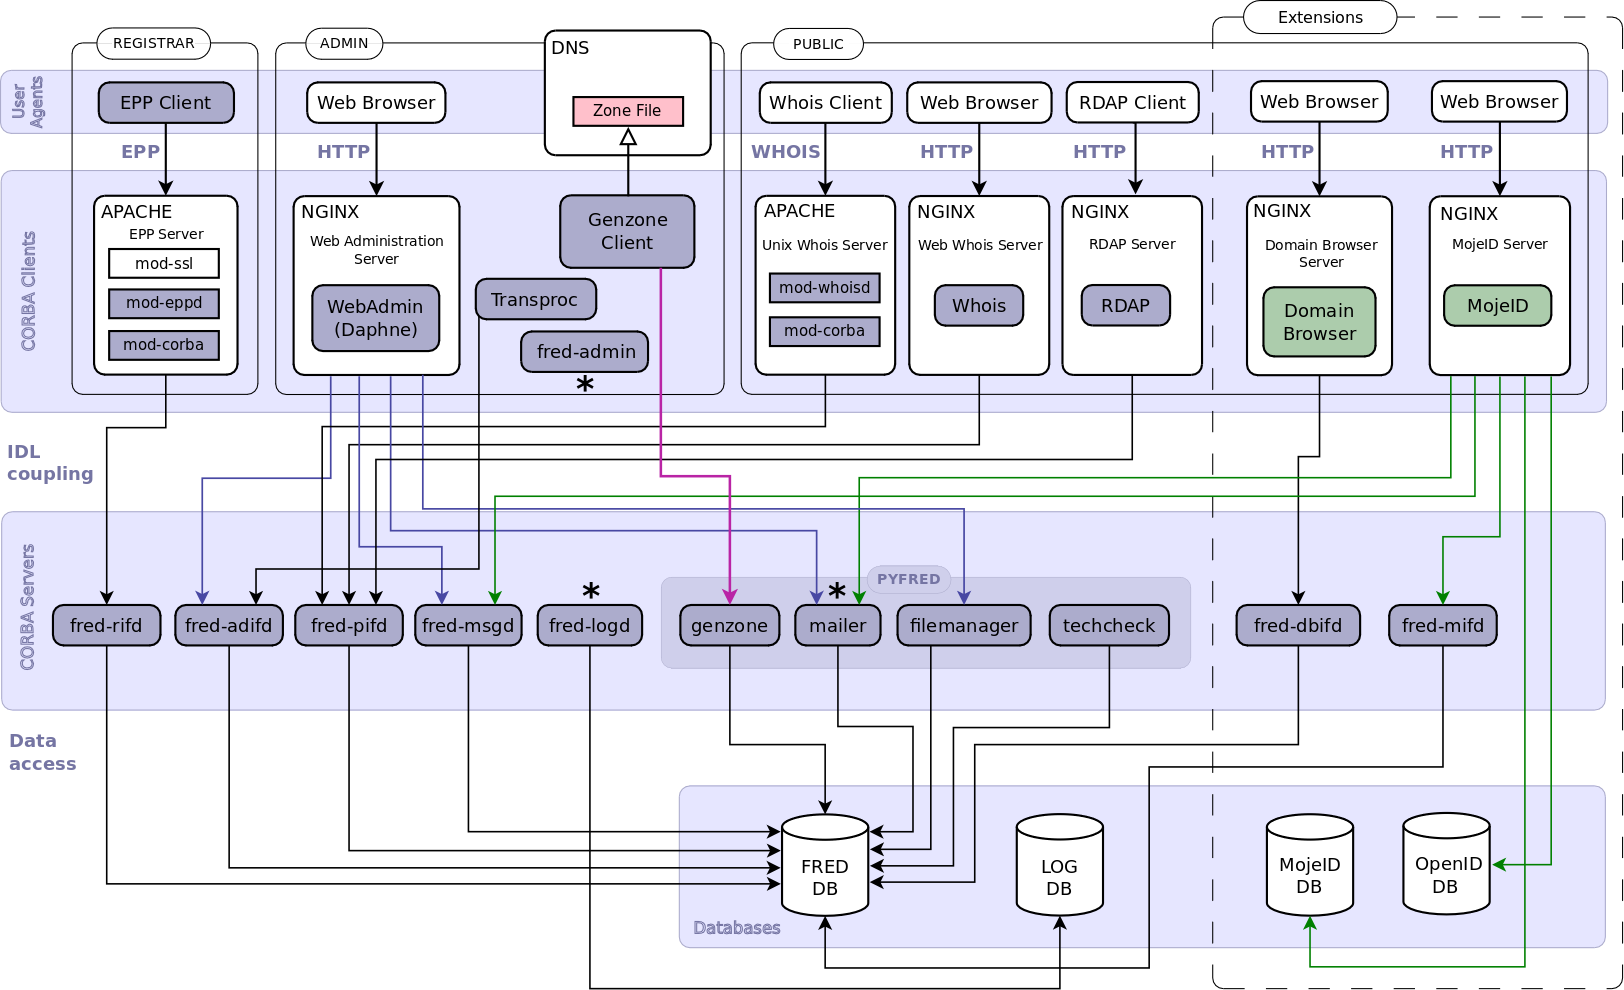
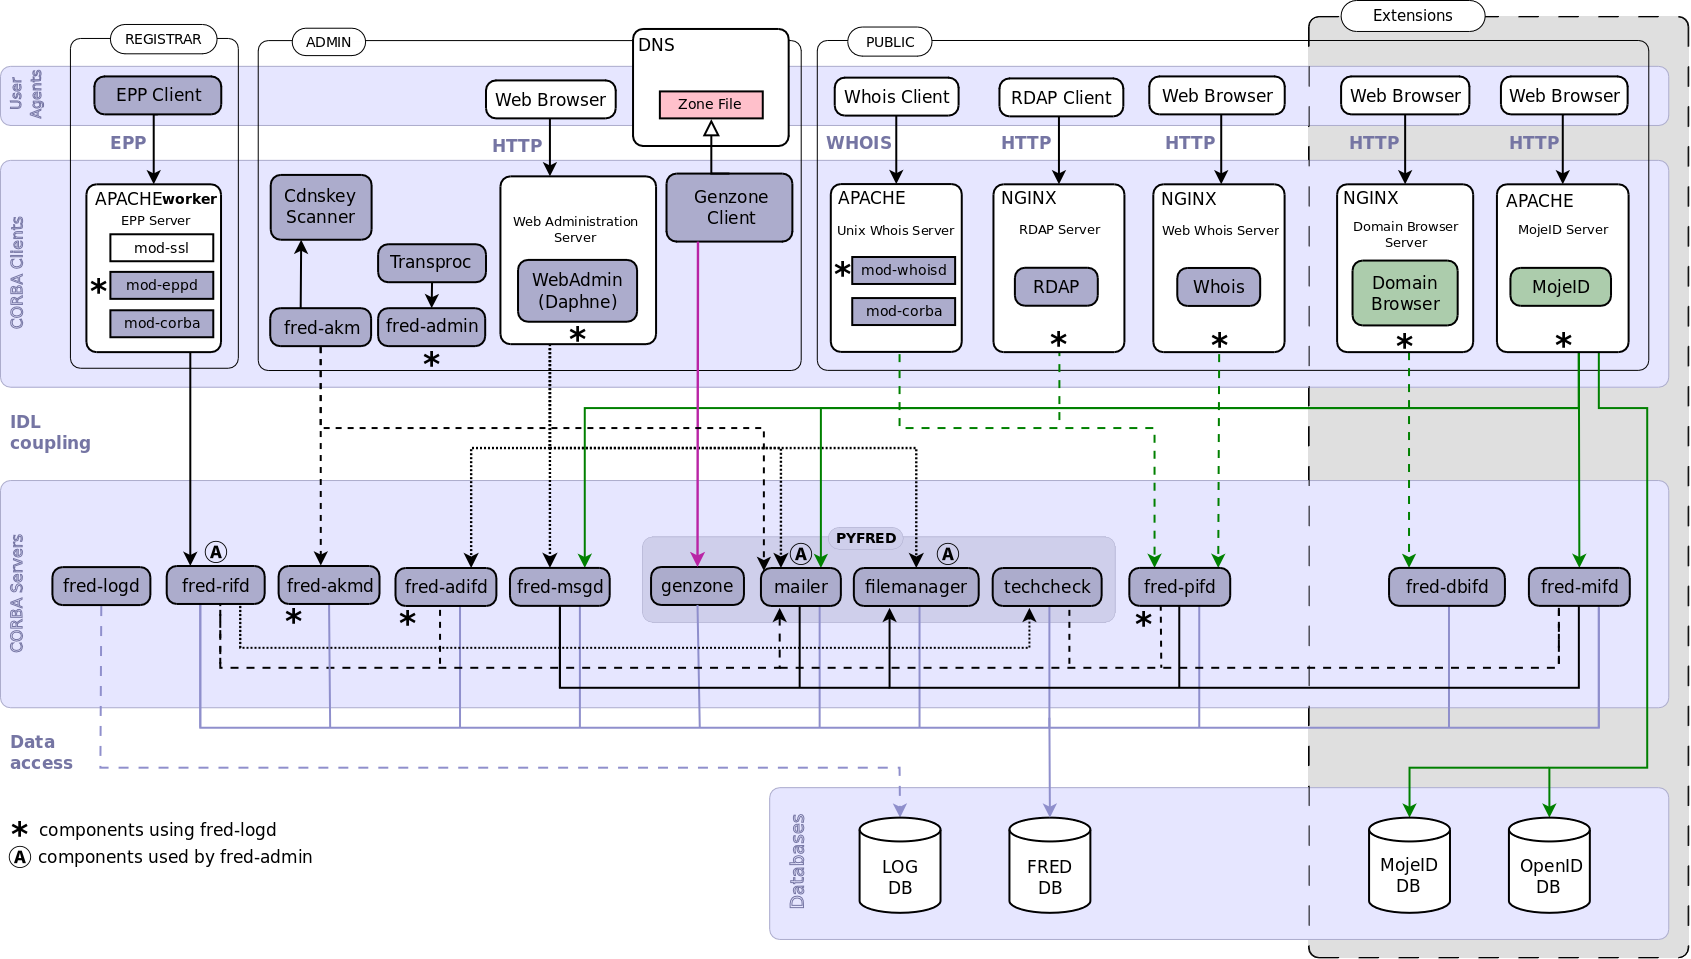
Remade component diagram (with AKM)

diff --git a/Architecture/TopLevelComponents/CORBAServers.rst b/Architecture/TopLevelComponents/CORBAServers.rst
@@ -96,16 +96,8 @@ fred-logd
 The audit logging daemon or "logger".
 
 This daemon creates audit trail of all user activity that passes
-through FRED applications and modules (i.e. CORBA clients, see the figure below).
-
-.. _fig-arch-logger:
-
-.. figure:: /Architecture/_graphics/schema-logger.png
-   :alt:
-   :align: center
-   :figwidth: 100%
-
-   Diagram of logger IDL-coupling with other components
+through FRED applications and modules (i.e. CORBA clients, see the
+:ref:`fig-arch-components`).
 
 .. _FRED-Arch-servers-mif:
 
@@ -190,15 +182,6 @@ manager.
 The mailer is used by the CORBA servers `fred-rifd`_ and `fred-adifd`_ and
 also by the CORBA clients :ref:`WebAdmin <FRED-Arch-clients-webadmin>` and
 :ref:`MojeID <FRED-Arch-clients-mid>`.
-
-.. _fig-arch-mailer:
-
-.. figure:: /Architecture/_graphics/schema-mailer.png
-   :alt:
-   :align: center
-   :figwidth: 100%
-
-   Diagram of mailer IDL-coupling with other components
 
 .. _FRED-Arch-servers-filemanager:
 

diff --git a/Architecture/TopLevelComponents/index.rst b/Architecture/TopLevelComponents/index.rst
@@ -39,10 +39,8 @@ components and their relationships.
    * *Green* components are developed by the CZ.NIC but they are not
      parts of the FRED software.
    * *Arrows* signify direct cooperation of components (the arrow points
-     at the component which serves the other component); the colors of arrows
-     carry no meaning.
-   * The complete IDL-coupling of the components with an *asterisk* (\*)
-     is pictured separately.
+     at the component which serves the other component); neither the colour
+     nor the style of arrows carry any meaning.
 
 .. toctree::
    :maxdepth: 2
